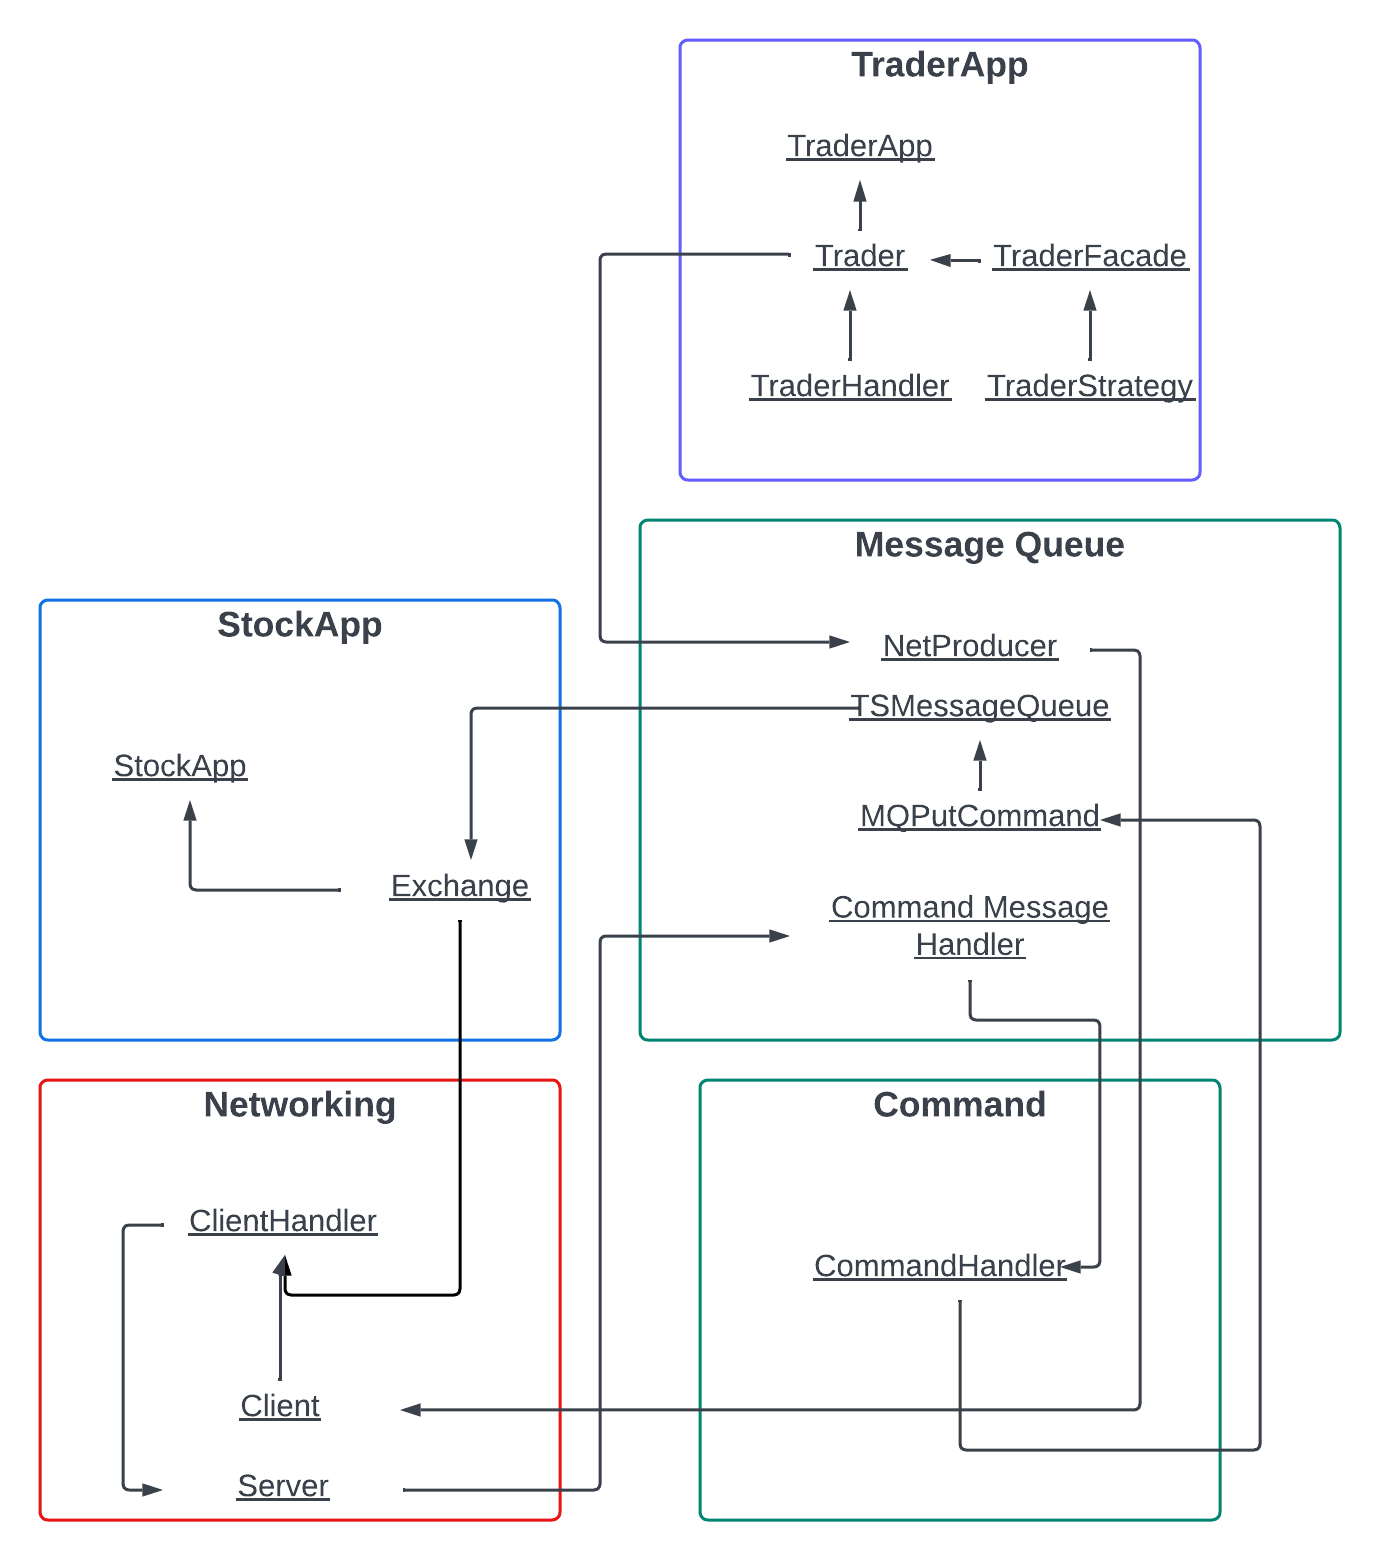
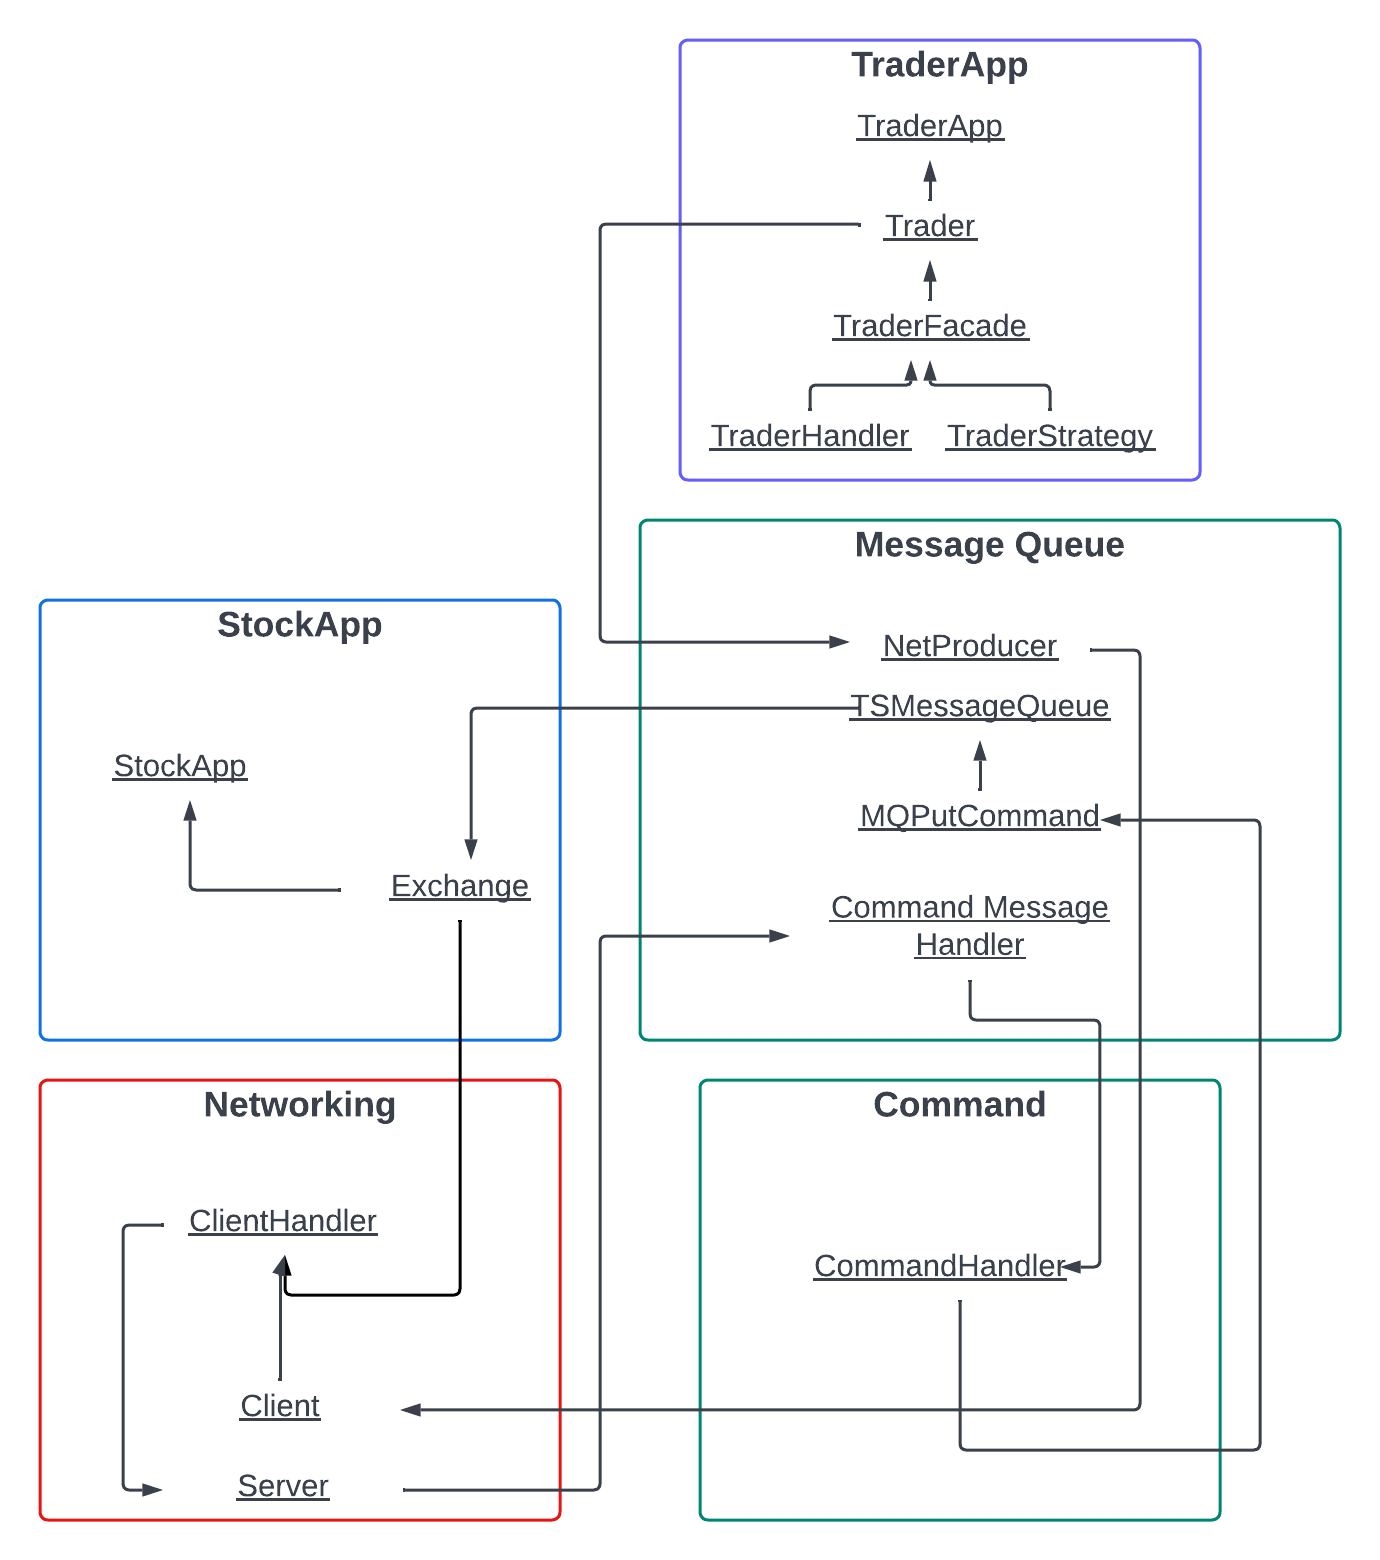
Final changes done, ready to submit

Changed region(s): [[0.5297, 0.0615, 0.8725, 0.3077]]

diff --git a/stocks/stocks-app/src/main/java/nl/rug/aoop/model/OrderHandler.java b/stocks/stocks-app/src/main/java/nl/rug/aoop/model/OrderHandler.java
@@ -19,6 +19,11 @@ public class OrderHandler {
     private Map<String, PriorityQueue<Order>> buyOrders;
     private Map<String, PriorityQueue<Order>> sellOrders;
 
+    /**
+     * Order handler that deals with handling the logic of orders.
+     *
+     * @param exchange the exchange.
+     */
     public OrderHandler(Exchange exchange) {
         this.buyOrders = new HashMap<>();
         this.sellOrders = new HashMap<>();
@@ -106,29 +111,19 @@ public class OrderHandler {
         double tradePrice = headOrder.getPrice();
         newOrder.setQuantity(newOrder.getQuantity() - tradedQuantity);
         headOrder.setQuantity(headOrder.getQuantity() - tradedQuantity);
-
         //Get pointer to buyer and seller
-        Trader buyer = exchange.findTraderById(newOrder.getAction() == Order.Action.BUY ? newOrder.getClientId() : headOrder.
+        Trader buyer = exchange.findTraderById(newOrder.getAction() == Order.Action.BUY ? newOrder.getClientId() : 
+                headOrder.
                 getClientId());
-        Trader seller = exchange.findTraderById(newOrder.getAction() == Order.Action.SELL ? newOrder.getClientId() : headOrder.
+        Trader seller = exchange.findTraderById(newOrder.getAction() == Order.Action.SELL ? newOrder.getClientId() : 
+                headOrder.
                 getClientId());
-
         //If buyer has enough money to buy a stock,
         if(buyer.getFunds() >= tradedQuantity * tradePrice) {
             //If buyer and seller exist
             if (buyer != null && seller != null) {
                 //Execute order arithmetic and exchange stocks
-                buyer.setFunds(buyer.getFunds() - tradedQuantity * tradePrice);
-                buyer.addOwnedStock(newOrder.getSymbol(), tradedQuantity);
-                seller.setFunds(seller.getFunds() + tradedQuantity * tradePrice);
-                seller.removeOwnedStock(newOrder.getSymbol(), tradedQuantity);
-                log.info("Executed trade for " + tradedQuantity + " shares of " + newOrder.getSymbol() + " " +
-                        "at price " + tradePrice);
-
-                //Update the exchange stock price
-                exchange.updateStockPrice(newOrder.getSymbol(), headOrder.getPrice());
-                //Update the traders after order completed
-                exchange.updateTraders();
+                executeOrder(newOrder, headOrder, buyer, tradedQuantity, tradePrice, seller);
             } else {
                 log.error("Buyer or Seller not found for the trade");
             }
@@ -138,5 +133,20 @@ public class OrderHandler {
         } else {
             log.error("Buyer does not have enough money");
         }
+    }
+
+    private void executeOrder(Order newOrder, Order headOrder, Trader buyer, int tradedQuantity, double tradePrice,
+                              Trader seller) {
+        buyer.setFunds(buyer.getFunds() - tradedQuantity * tradePrice);
+        buyer.addOwnedStock(newOrder.getSymbol(), tradedQuantity);
+        seller.setFunds(seller.getFunds() + tradedQuantity * tradePrice);
+        seller.removeOwnedStock(newOrder.getSymbol(), tradedQuantity);
+        log.info("Executed trade for " + tradedQuantity + " shares of " + newOrder.getSymbol() + " " +
+                "at price " + tradePrice);
+
+        //Update the exchange stock price
+        exchange.updateStockPrice(newOrder.getSymbol(), headOrder.getPrice());
+        //Update the traders after order completed
+        exchange.updateTraders();
     }
 }

diff --git a/stocks/trader-app/src/main/java/nl/rug/aoop/TraderFacade.java b/stocks/trader-app/src/main/java/nl/rug/aoop/TraderFacade.java
@@ -6,11 +6,12 @@ import lombok.extern.slf4j.Slf4j;
 import nl.rug.aoop.actions.Order;
 import nl.rug.aoop.networking.MessageHandler;
 
+import java.util.List;
+import java.util.Map;
+
 
 /**
- * The StockExchangeFacade class serves as a facade for the stock exchange system.
- * It provides a simplified interface for traders to interact with the system.
- *
+ * The TraderFacade class serves as a facade for the TraderApp system.
  */
 @Slf4j
 public class TraderFacade {
@@ -38,8 +39,9 @@ public class TraderFacade {
      * Places an order with the stock exchange through the associated Trader.
      *
      * @param action   The action of the order (BUY or SELL).
-     * @param symbol   The symbol of the financial instrument.
-     * @param quantity The quantity of the financial instrument to be traded.
+     * @param type     The order type.
+     * @param symbol   The symbol of the stock.
+     * @param quantity The quantity of the stock to be traded.
      * @param price    The price at which the order should be executed.
      */
     public void placeOrder(Order.Action action, Order.Type type, String symbol, long quantity, double price) {
@@ -47,11 +49,29 @@ public class TraderFacade {
     }
 
     /**
+     * Update trader information.
+     *
+     * @param funds       The updated funds.
+     * @param name        The updated name.
+     * @param ownedStocks The updated owned stocks.
+     */
+    public void updateInfo(double funds, String name, Map<String, Integer> ownedStocks) {
+        trader.updateInfo(funds, name, ownedStocks);
+    }
+
+    /**
+     * Update stock information.
+     *
+     * @param stocks The updated list of stocks.
+     */
+    public void updateStocks(List<Stock> stocks) {
+        trader.updateStocks(stocks);
+    }
+
+    /**
      * Executes the trading strategy associated with this TraderFacade.
-     * The specific strategy is defined by the TraderStrategy instance.
      */
     public void executeStrategy() {
         strategy.executeStrategy();
     }
-
 }

diff --git a/stocks/trader-app/src/test/java/nl/rug/aoop/TestTraderHandler.java b/stocks/trader-app/src/test/java/nl/rug/aoop/TestTraderHandler.java
@@ -1,20 +1,23 @@
 package nl.rug.aoop;
 
 import java.util.HashMap;
-import java.util.List;
 import java.util.Map;
-import static org.mockito.Mockito.*;
 
 import org.junit.jupiter.api.BeforeEach;
 import org.junit.jupiter.api.Test;
+import static org.mockito.Mockito.*;
 
 public class TestTraderHandler {
-    private TraderHandler traderHandler;
+
+    private Trader trader;
     private TraderFacade traderFacade;
+    private TraderHandler traderHandler;
 
     @BeforeEach
     public void setUp() {
+        trader = mock(Trader.class);
         traderFacade = mock(TraderFacade.class);
+        when(traderFacade.getTrader()).thenReturn(trader);
         traderHandler = new TraderHandler(traderFacade);
     }
 
@@ -22,13 +25,11 @@ public class TestTraderHandler {
     public void testHandleTraderInfo() {
         String traderMessage = "{\"name\":\"John\",\"funds\":1000,\"ownedStocks\":{\"AAPL\":10,\"GOOGL\":5}}";
 
-        when(traderFacade.getTrader().getName()).thenReturn("InitialName");
-        when(traderFacade.getTrader().getAvailableFunds()).thenReturn(500.0);
-        when(traderFacade.getTrader().getOwnedStocks()).thenReturn(new HashMap<>());
+        when(trader.getName()).thenReturn("InitialName");
+        when(trader.getAvailableFunds()).thenReturn(500.0);
+        when(trader.getOwnedStocks()).thenReturn(new HashMap<>());
 
         traderHandler.handleTraderInfo(traderMessage);
-
-        verify(traderFacade.getTrader()).updateInfo(1000, "John", Map.of("AAPL", 10, "GOOGL", 5));
+        verify(traderFacade).updateInfo(1000, "John", Map.of("AAPL", 10, "GOOGL", 5));
     }
-
 }

diff --git a/stocks/stocks-app/src/main/java/nl/rug/aoop/model/Exchange.java b/stocks/stocks-app/src/main/java/nl/rug/aoop/model/Exchange.java
@@ -198,14 +198,24 @@ public class Exchange implements StockExchangeDataModel, ConsumerObserver {
         return traders.size();
     }
 
+    /**
+     * Updates the stock price for a given stock symbol.
+     * If the stock with the specified symbol is found, its price is updated.
+     * If the stock is not found, an error message is logged.
+     *
+     * @param stockSymbol The symbol of the stock whose price needs to be updated.
+     * @param tradePrice The new trade price to set for the stock.
+     */
     protected void updateStockPrice(String stockSymbol, double tradePrice) {
         Stock tradedStock = findStockBySymbol(stockSymbol);
+
         if (tradedStock != null) {
             tradedStock.setPrice(tradePrice);
         } else {
             log.error("Stock not found for symbol: " + stockSymbol);
         }
     }
+
 
     /**
      * This receives messages from the NetConsumer, which are continuously polled from the TSMessageQueue.
@@ -224,6 +234,12 @@ public class Exchange implements StockExchangeDataModel, ConsumerObserver {
         }
     }
 
+    /**
+     * Finds the trader by id.
+     *
+     * @param id the id of the trader you are looking for..
+     * @return the trader that has that id.
+     */
     protected Trader findTraderById(String id) {
         for (Trader trader : traders) {
             if (trader.getId().equals(id)) {

diff --git a/stocks/stocks-app/src/main/java/nl/rug/aoop/actions/Order.java b/stocks/stocks-app/src/main/java/nl/rug/aoop/actions/Order.java
@@ -19,6 +19,10 @@ public class Order implements Comparable<Order> {
         BUY, SELL
     }
 
+    /**
+     * Defines the type of order: MARKET or LIMT.
+     */
+
     public enum Type {
         MARKET, LIMIT
     }
@@ -43,6 +47,7 @@ public class Order implements Comparable<Order> {
     /**
      * Creates a new limit order with the specified parameters. (Price specified).
      *
+     * @param action    The action of the order.
      * @param clientId  The identifier of the client or trader placing the order.
      * @param symbol    The symbol of the stock associated with the order.
      * @param quantity  The quantity of shares in the order.
@@ -63,6 +68,7 @@ public class Order implements Comparable<Order> {
     /**
      * Creates a new market order with the specified parameters. (No price specified. Buys at market price).
      *
+     * @param action    The action of the order.
      * @param clientId  The identifier of the client or trader placing the order.
      * @param symbol    The symbol of the stock associated with the order.
      * @param quantity  The quantity of shares in the order.
@@ -77,7 +83,6 @@ public class Order implements Comparable<Order> {
         this.quantity = quantity;
         this.timestamp = timestamp;
     }
-
 
     @Override
     public int compareTo(Order other) {

diff --git a/stocks/trader-app/src/main/java/nl/rug/aoop/TraderStrategy.java b/stocks/trader-app/src/main/java/nl/rug/aoop/TraderStrategy.java
@@ -18,9 +18,9 @@ public class TraderStrategy {
     private TraderFacade traderFacade;
 
     /**
-     * Implements a trader strategy on a trader.
+     * Implements a trader strategy on a traderFacade which will then implement it on a trader.
      *
-     * @param traderFacade the trader that will have a strategy implemented on them.
+     * @param traderFacade the traderFacade that will have a strategy implemented on them.
      */
 
     public TraderStrategy(TraderFacade traderFacade) {
@@ -28,7 +28,7 @@ public class TraderStrategy {
     }
 
     /**
-     * Implement a trader strategy for generating random orders.
+     * Execute a trader strategy for generating random orders.
      */
     public void executeStrategy() {
         Random random = new Random();
@@ -93,7 +93,6 @@ public class TraderStrategy {
         double limitPriceBuy = price * priceFactor;
         double limitPriceSell = price / priceFactor;
         int buyOrSell = random.nextInt(2);
-        //Randomly choose between LIMIT and MARKET
         if (buyOrSell == 1 && traderFacade.getTrader().getAvailableFunds() > 0) {
             traderFacade.placeOrder(BUY, LIMIT, randomStockSymbolBuy, randomQuantityBuy, limitPriceBuy);
         } else {

diff --git a/stocks/trader-app/src/main/java/nl/rug/aoop/TraderHandler.java b/stocks/trader-app/src/main/java/nl/rug/aoop/TraderHandler.java
@@ -22,7 +22,7 @@ public class TraderHandler implements MessageHandler {
     /**
      * Constructs a TraderHandler for a specific trader.
      *
-     * @param traderFacade The trader associated with this handler.
+     * @param traderFacade The traderFacade associated with this handler.
      */
     public TraderHandler(TraderFacade traderFacade) {
         this.traderFacade = traderFacade;
@@ -60,7 +60,7 @@ public class TraderHandler implements MessageHandler {
         String name = modelTrader.getName();
         Map<String, Integer> ownedStocks = modelTrader.getOwnedStocks();
 
-        traderFacade.getTrader().updateInfo(funds,name,ownedStocks);
+        traderFacade.updateInfo(funds,name,ownedStocks);
     }
 
     /**
@@ -75,7 +75,7 @@ public class TraderHandler implements MessageHandler {
         List<Stock> stocks = gson.fromJson(msg, stockListType); //here this list has all the stock info
 
         if (stocks != null) {
-            traderFacade.getTrader().updateStocks(stocks);
+            traderFacade.updateStocks(stocks);
         } else {
             log.warn("Failed to parse stock information.");
         }

diff --git a/stocks/trader-app/src/main/java/nl/rug/aoop/Trader.java b/stocks/trader-app/src/main/java/nl/rug/aoop/Trader.java
@@ -6,7 +6,6 @@ import lombok.extern.slf4j.Slf4j;
 import nl.rug.aoop.actions.Order;
 import nl.rug.aoop.messagequeue.queues.Message;
 import nl.rug.aoop.messagequeue.serverside.NetProducer;
-import nl.rug.aoop.networking.MessageHandler;
 import nl.rug.aoop.networking.client.Client;
 import java.io.IOException;
 import java.net.InetSocketAddress;
@@ -41,7 +40,6 @@ public class Trader implements Runnable {
     @Getter
     private NetProducer producer;
     private Client client;
-    private MessageHandler handler;
     @Getter
     private InetSocketAddress address;
     @Setter
@@ -96,6 +94,7 @@ public class Trader implements Runnable {
      * Place an order with the specified type, stock symbol, quantity, and price.
      *
      * @param action    The action of the order (BUY or SELL).
+     * @param type      The order type.
      * @param symbol    The symbol of the stock.
      * @param quantity  The quantity of the stock to be traded.
      * @param price     The price per unit of the stock.
